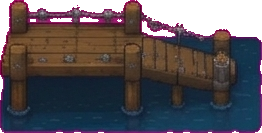
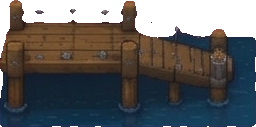
Remove magenta chroma fringe from all env props
- The binary key left an anti-aliased magenta ring (darker partial-magenta edge pixels)
- Added global pure-magenta removal + boundary hue de-fringe + 1px erosion; verified 0 magenta residual on every prop. Bumped ART_V

diff --git a/index.html b/index.html
@@ -5,7 +5,7 @@
   <meta name="viewport" content="width=device-width, initial-scale=1.0, maximum-scale=1.0, user-scalable=no">
   <title>Lukeymon</title>
   <link href="https://fonts.googleapis.com/css2?family=Press+Start+2P&display=swap" rel="stylesheet">
-  <link rel="stylesheet" href="style.css?v=3.19.6">
+  <link rel="stylesheet" href="style.css?v=3.19.7">
 </head>
 <body>
 
@@ -29,7 +29,7 @@
           <p class="title-tagline">Catch ʼem with kindness!</p>
           <div class="title-scene">
             <span class="title-ground"></span>
-            <img class="title-hero" src="art/player/side.png?v=3.19.6" alt="">
+            <img class="title-hero" src="art/player/side.png?v=3.19.7" alt="">
             <img class="title-pika" src="sprites/025.png" alt="">
             <span class="title-spark sp1">⚡</span>
             <span class="title-spark sp2">⚡</span>
@@ -441,12 +441,12 @@
   </div><!-- /device -->
   <div id="version-bar">
     <button id="hard-refresh" title="Hard refresh — force reload the latest version">⟳</button>
-    <span id="version">v3.19.6</span>
+    <span id="version">v3.19.7</span>
   </div>
 
-  <script src="world.js?v=3.19.6"></script>
-  <script src="data.js?v=3.19.6"></script>
-  <script src="game.js?v=3.19.6"></script>
-  <script src="net.js?v=3.19.6"></script>
+  <script src="world.js?v=3.19.7"></script>
+  <script src="data.js?v=3.19.7"></script>
+  <script src="game.js?v=3.19.7"></script>
+  <script src="net.js?v=3.19.7"></script>
 </body>
 </html>

diff --git a/game.js b/game.js
@@ -902,7 +902,7 @@ function buildTileCache() {
 }
 
 // ── Sliced biome art (per-zone tiles, trees, shop building) ──────────
-const ART_V = '25';   // bump to bust the image cache when art files change
+const ART_V = '26';   // bump to bust the image cache when art files change
 const TILE_ART = {
   0: { 0: 3, 1: 3, 3: 3 }, 1: { 1: 3, 3: 3, 4: 3 }, 2: { 1: 3, 5: 3 },
   3: { 0: 3, 1: 3, 3: 3 }, 4: { 0: 3, 1: 3, 7: 3 }, 5: { 0: 3, 1: 3, 11: 1 },
